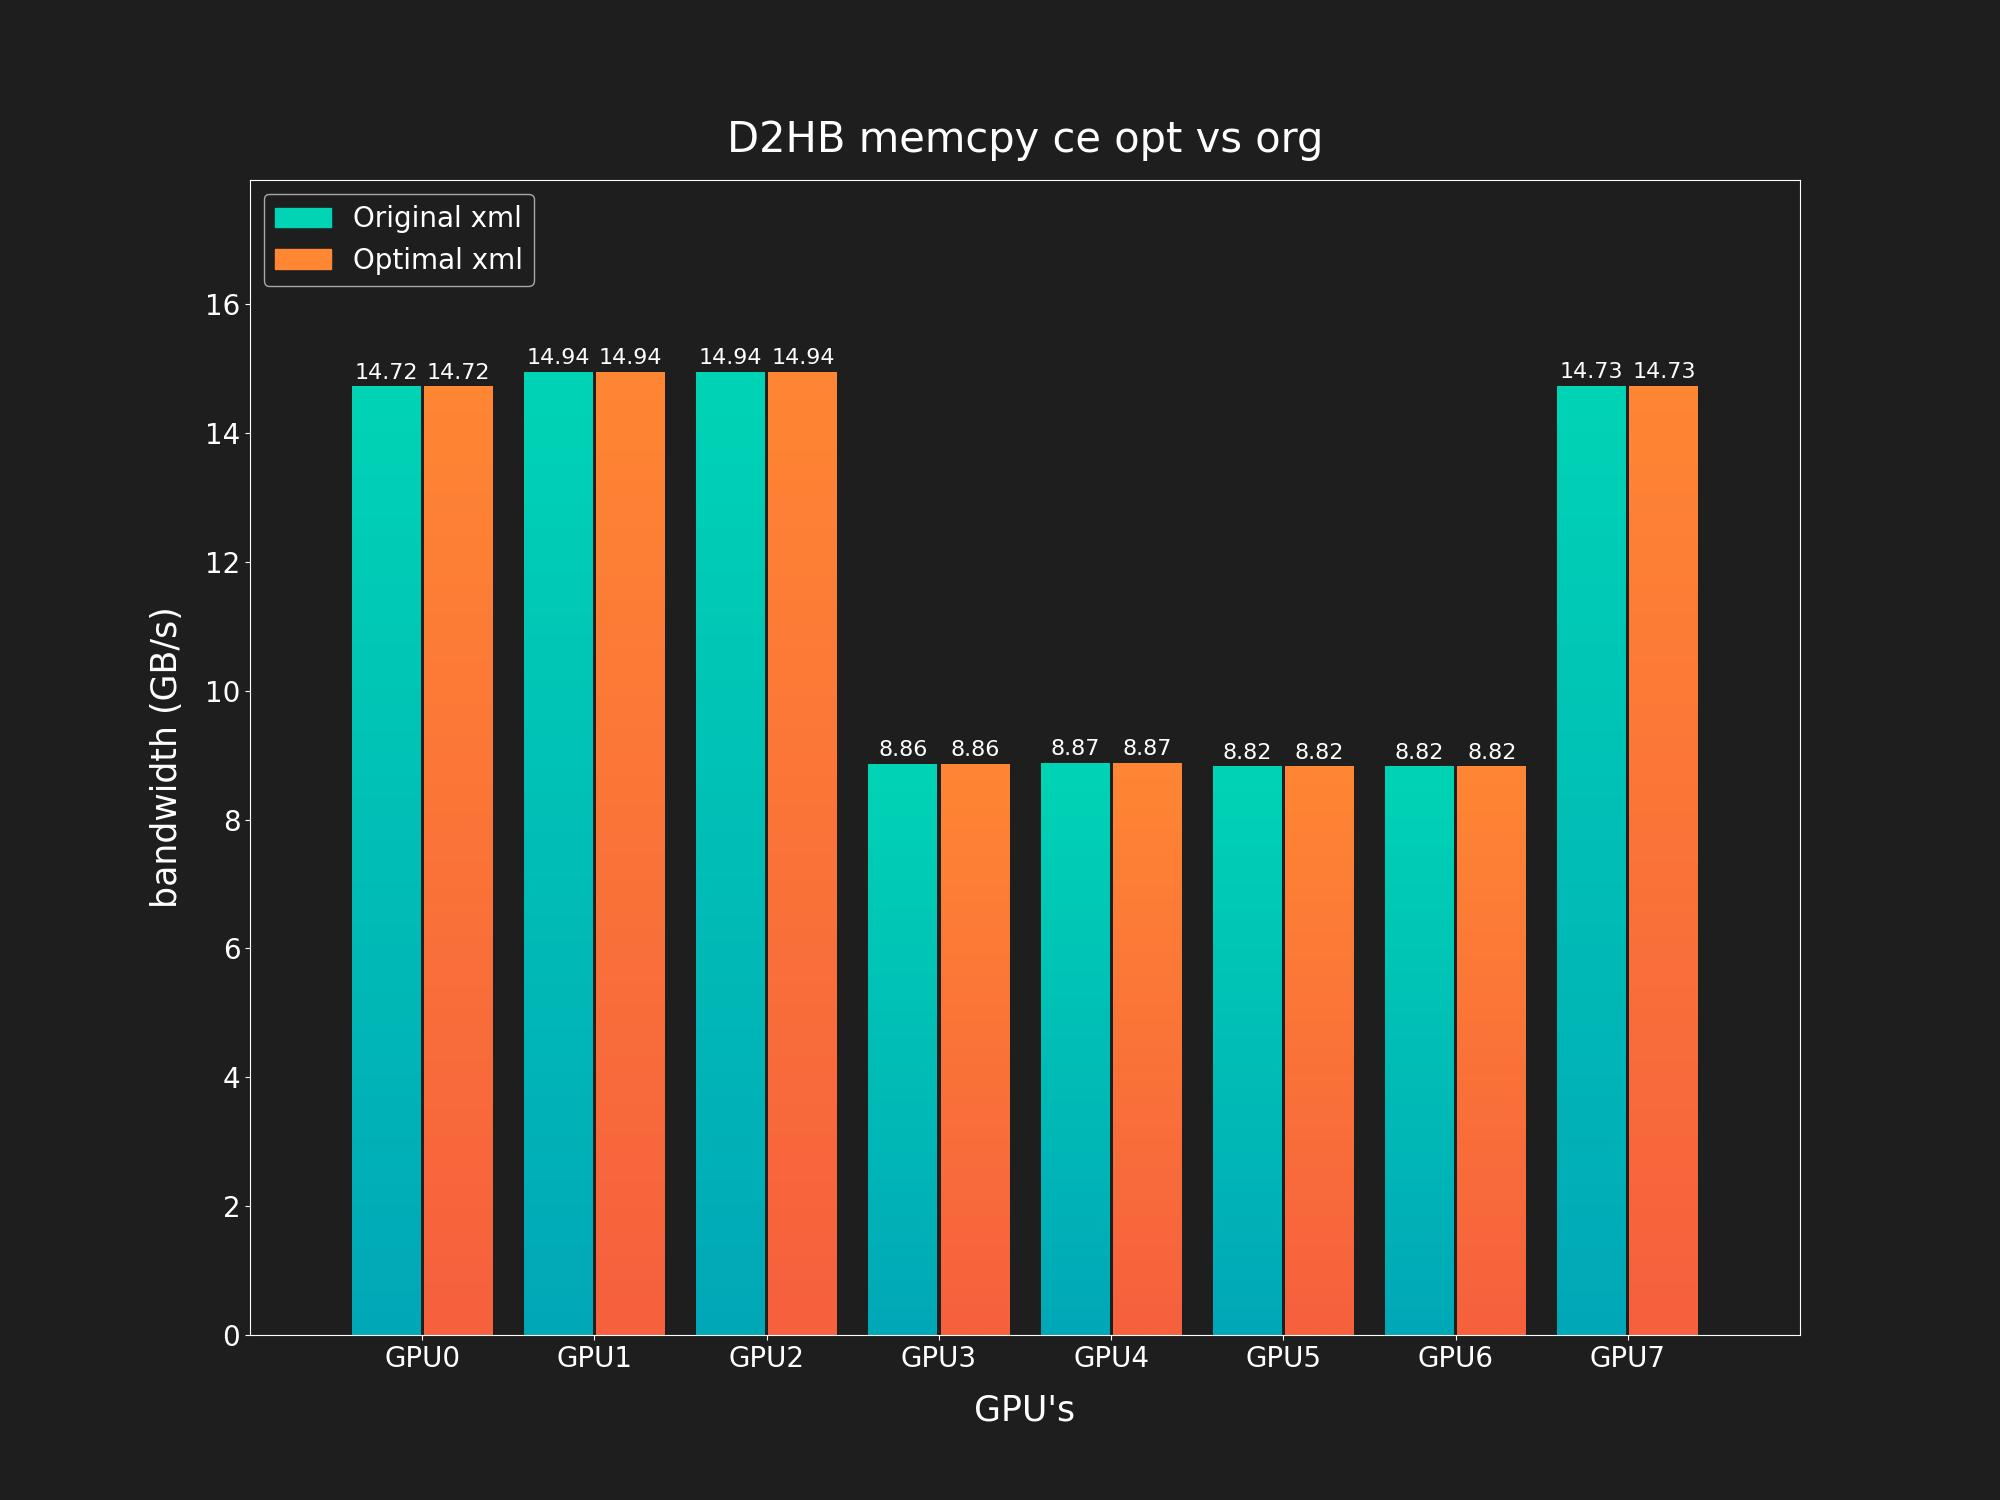
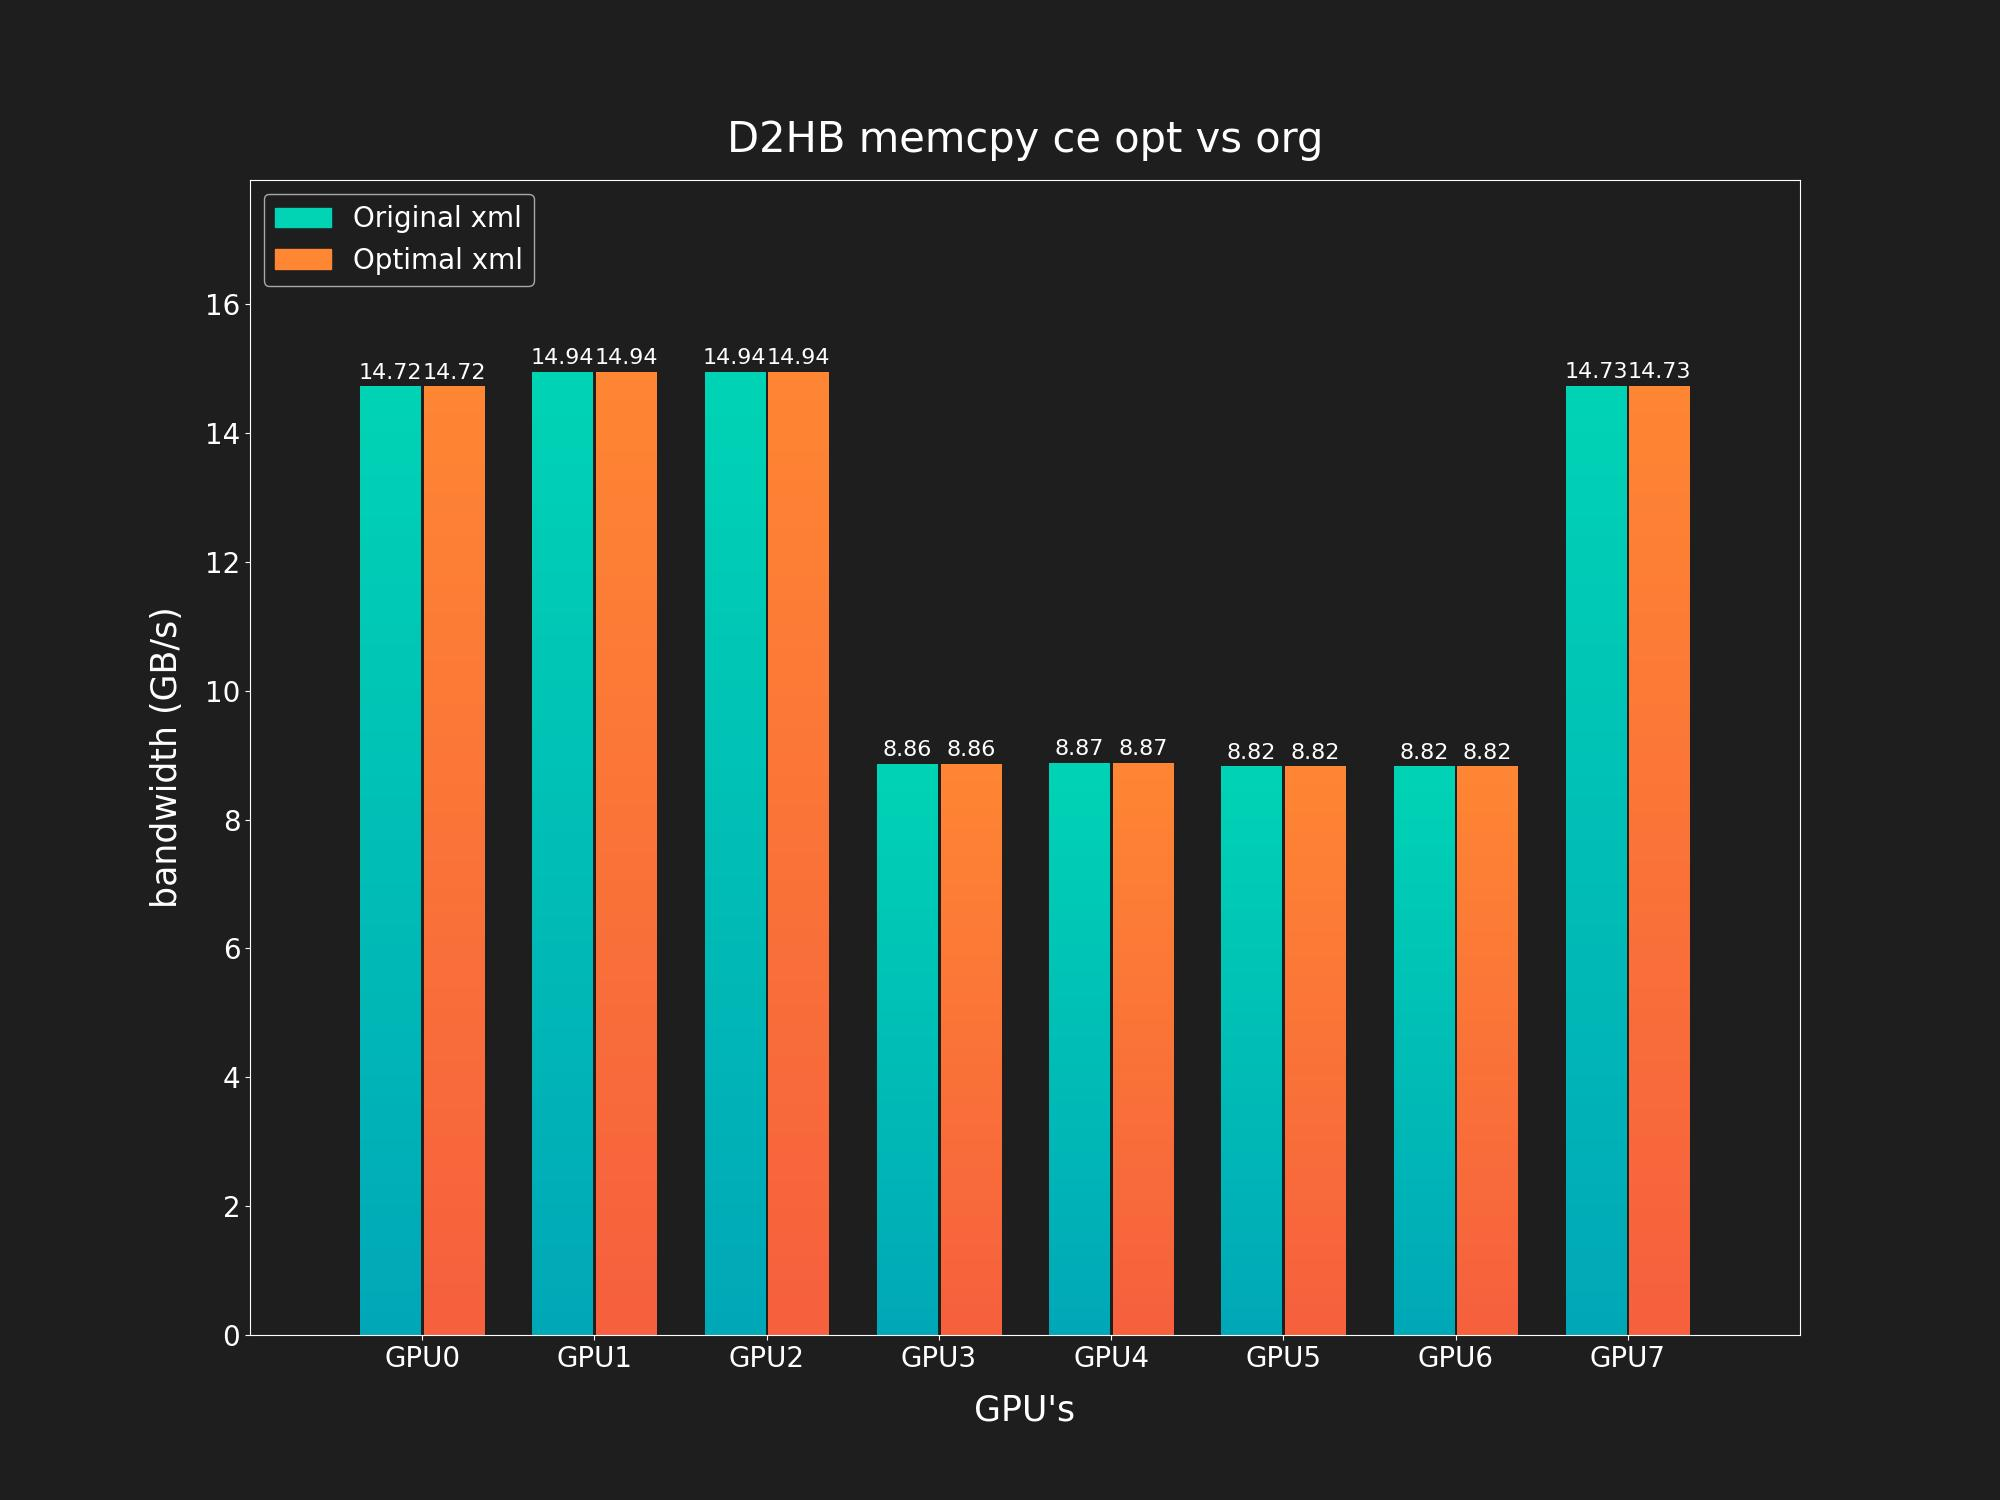
seperated all to one

Changed region(s): [[0.403, 0.2453, 0.868, 0.8893], [0.155, 0.2453, 0.279, 0.8893], [0.279, 0.2147, 0.403, 0.8893]]

diff --git a/tests_config/tests_config_nvbw.py b/tests_config/tests_config_nvbw.py
@@ -15,27 +15,33 @@ class NvBandwidthConfig:
 
 
     # Group version 2
-    11: {"file_name": "H2D_memcpy_ce", "test_name": "Host to device memcpy ce"},
-    12: {"file_name": "D2H_memcpy_ce", "test_name": "Device to host memcpy_ce"},
-    13: {"file_name": "H2DB_memcpy_ce", "test_name": "Host to device bidirectional memcpy_ce"},
-    14: {"file_name": "D2HB_memcpy_ce", "test_name": "Device to host bidirectional memcpy_ce"},
-    15: {"file_name": "A2H_memcpy_ce", "test_name": "All To Host memcpy_ce"},
-    16: {"file_name": "A2HB_memcpy_ce", "test_name": "All To Host Bidirectional memcpy_ce"},
-    17: {"file_name": "H2A_memcpy_ce", "test_name": "Host To All memcpy_ce"},
-    18: {"file_name": "H2AB_memcpy_ce", "test_name": "Host To All Bidirectional memcpy_ce"},
-    19: {"file_name": "D2D_read_write_ce", "test_name": "Device To Device Read&Write memcpy_ce"},
-    20: {"file_name": "O2A_A2O_read_write_ce", "test_name": "All to One And One To All Read&Write memcpy_sm"},
+        11: {"file_name": "H2D_memcpy_ce", "test_name": "Host to device memcpy ce"},
+        12: {"file_name": "D2H_memcpy_ce", "test_name": "Device to host memcpy_ce"},
+        13: {"file_name": "H2DB_memcpy_ce", "test_name": "Host to device bidirectional memcpy_ce"},
+        14: {"file_name": "D2HB_memcpy_ce", "test_name": "Device to host bidirectional memcpy_ce"},
+        15: {"file_name": "A2H_memcpy_ce", "test_name": "All To Host memcpy_ce"},
+        16: {"file_name": "A2HB_memcpy_ce", "test_name": "All To Host Bidirectional memcpy_ce"},
+        17: {"file_name": "H2A_memcpy_ce", "test_name": "Host To All memcpy_ce"},
+        18: {"file_name": "H2AB_memcpy_ce", "test_name": "Host To All Bidirectional memcpy_ce"},
+        19: {"file_name": "D2D_read_write_ce", "test_name": "Device To Device Read&Write memcpy_ce"},
+        20: {"file_name": "O2A_write_memcpy_ce", "test_name": "All to One Read memcpy_ce"},
+        21: {"file_name": "O2A_read_memcpy_ce", "test_name": "All to One Write memcpy_sm"},
+        22: {"file_name": "A2O_write_memcpy_ce", "test_name": "All to One Write memcpy_ce"},
+        23: {"file_name": "A2O_read_memcpy_ce", "test_name": "All to One Read memcpy_ce"},
 
-
-    21: {"file_name": "H2D_memcpy_sm", "test_name": "Host to device memcpy sm"},
-    22: {"file_name": "D2H_memcpy_sm", "test_name": "Device to host memcpy_sm"},
-    23: {"file_name": "H2DB_memcpy_sm", "test_name": "Host to device bidirectional memcpy_sm"},
-    24: {"file_name": "D2HB_memcpy_sm", "test_name": "Device to host bidirectional memcpy_sm"},
-    25: {"file_name": "A2H_memcpy_sm", "test_name": "All To Host memcpy_sm"},
-    26: {"file_name": "A2HB_memcpy_sm", "test_name": "All To Host Bidirectional memcpy_sm"},
-    27: {"file_name": "H2A_memcpy_sm", "test_name": "Host To All memcpy_sm"},
-    28: {"file_name": "H2AB_memcpy_sm", "test_name": "Host To All Bidirectional memcpy_sm"},
-    29: {"file_name": "D2D_read_write_sm", "test_name": "Device To Device Read&Write memcpy_sm"},
+        24: {"file_name": "H2D_memcpy_sm", "test_name": "Host to device memcpy sm"},
+        25: {"file_name": "D2H_memcpy_sm", "test_name": "Device to host memcpy_sm"},
+        26: {"file_name": "H2DB_memcpy_sm", "test_name": "Host to device bidirectional memcpy_sm"},
+        27: {"file_name": "D2HB_memcpy_sm", "test_name": "Device to host bidirectional memcpy_sm"},
+        28: {"file_name": "A2H_memcpy_sm", "test_name": "All To Host memcpy_sm"},
+        29: {"file_name": "A2HB_memcpy_sm", "test_name": "All To Host Bidirectional memcpy_sm"},
+        30: {"file_name": "H2A_memcpy_sm", "test_name": "Host To All memcpy_sm"},
+        31: {"file_name": "H2AB_memcpy_sm", "test_name": "Host To All Bidirectional memcpy_sm"},
+        32: {"file_name": "D2D_read_write_sm", "test_name": "Device To Device Read&Write memcpy_sm"},
+        33: {"file_name": "O2A_write_memcpy_sm", "test_name": "All to One Read memcpy_sm"},
+        34: {"file_name": "O2A_read_memcpy_sm", "test_name": "All to One Write memcpy_sm"},
+        35: {"file_name": "A2O_write_memcpy_sm", "test_name": "All to One Write memcpy_sm"},
+        36: {"file_name": "A2O_read_memcpy_sm", "test_name": "All to One Read memcpy_sm"},
     }
 
     # Tests configs
@@ -169,7 +175,7 @@ class NvBandwidthConfig:
         "right_offset": 1,
         "start": "Running all_to_one_write_ce",
         "end": "SUM all_to_one_write_ce",
-        "group_id": 20
+        "group_id": 22
     }
 
     ALL2ONE_READ_CE = {
@@ -179,7 +185,7 @@ class NvBandwidthConfig:
         "right_offset": 1,
         "start": "Running all_to_one_read_ce",
         "end": "SUM all_to_one_read_ce",
-        "group_id": 20
+        "group_id": 23
     }
 
     ONE2ALL_WRITE_CE = {
@@ -199,7 +205,7 @@ class NvBandwidthConfig:
         "right_offset": 1,
         "start": "Running one_to_all_read_ce",
         "end": "SUM one_to_all_read_ce",
-        "group_id": 20
+        "group_id": 21
     }
 
     # -- memcpy_sm

diff --git a/test_handlers/nv_bandwidth.py b/test_handlers/nv_bandwidth.py
@@ -6,41 +6,10 @@ from data_structures.nv_bandwidth_struct import NvBandwidth
 from data_structures.test import Test
 from test_handlers.test_handlers_utils import groups_all_configs
 from tests_config.tests_config_nvbw import NvBandwidthConfig
-from graph_generators.bar_graph import plot_bar_graph, plot_four_graphs
-from utils.general import get_filename_without_extension, replace_underscores_with_spaces
+from graph_generators.bar_graph import plot_bar_graph
+from utils.general import replace_underscores_with_spaces
 from utils.handle_data import load_data_matrix_format
 
-
-def plot_opt_vs_org(bandwidth_struct_list):
-    # For now - we will compare only the first two
-    bandwidth_struct_opt = [bandwidth_struct for bandwidth_struct in bandwidth_struct_list if bandwidth_struct.type == NvBandwidth.TYPE_OPT]
-    bandwidth_struct_org = [bandwidth_struct for bandwidth_struct in bandwidth_struct_list if bandwidth_struct.type == NvBandwidth.TYPE_ORG]
-
-    if len(bandwidth_struct_opt) != 1 or len(bandwidth_struct_org) != 1:
-        print("Error: Expected exactly one opt and one org file")
-        return
-
-    bandwidth_struct_opt = bandwidth_struct_opt[0]
-    bandwidth_struct_org = bandwidth_struct_org[0]
-
-    opt_tests = bandwidth_struct_opt.get_tests()
-    org_tests = bandwidth_struct_org.get_tests()
-
-    for opt_test in opt_tests:  # Iterate through each test in opt_tests
-        # Find a test in org_tests with the same name
-        matching_org_test = next((org_test for org_test in org_tests if org_test.name == opt_test.name), None)
-
-        if matching_org_test is not None:
-            print(f"Comparing opt {opt_test.name} with org {matching_org_test.name}")
-            org_vs_opt_bar_graph_nvbandwidth(
-                data_org= matching_org_test.data_pandas,
-                data_opt= opt_test.data_pandas,
-                graph_config= ComparisonGraphConfig,
-                test_name= replace_underscores_with_spaces(f"{opt_test.name} opt vs org"),
-                file_name= f"org_vs_opt_{opt_test.name}")
-
-        else:
-            print(f"Test {opt_test.name} not found in org_tests")
 
 
 def create_test_instance_and_plot(nv_bandwidth_struct, configs, graph_file_name, test_name):
@@ -121,3 +90,34 @@ def start_bandwidth(file):
         create_test_instance_and_plot(nv_bandwidth_struct, config_group, group_info["file_name"], group_info["test_name"])
     
     return nv_bandwidth_struct
+
+def plot_opt_vs_org(bandwidth_struct_list):
+    # For now - we will compare only the first two
+    bandwidth_struct_opt = [bandwidth_struct for bandwidth_struct in bandwidth_struct_list if bandwidth_struct.type == NvBandwidth.TYPE_OPT]
+    bandwidth_struct_org = [bandwidth_struct for bandwidth_struct in bandwidth_struct_list if bandwidth_struct.type == NvBandwidth.TYPE_ORG]
+
+    if len(bandwidth_struct_opt) != 1 or len(bandwidth_struct_org) != 1:
+        print("Error: Expected exactly one opt and one org file")
+        return
+
+    bandwidth_struct_opt = bandwidth_struct_opt[0]
+    bandwidth_struct_org = bandwidth_struct_org[0]
+
+    opt_tests = bandwidth_struct_opt.get_tests()
+    org_tests = bandwidth_struct_org.get_tests()
+
+    for opt_test in opt_tests:  # Iterate through each test in opt_tests
+        # Find a test in org_tests with the same name
+        matching_org_test = next((org_test for org_test in org_tests if org_test.name == opt_test.name), None)
+
+        if matching_org_test is not None:
+            print(f"Comparing opt {opt_test.name} with org {matching_org_test.name}")
+            org_vs_opt_bar_graph_nvbandwidth(
+                data_org= matching_org_test.data_pandas,
+                data_opt= opt_test.data_pandas,
+                graph_config= ComparisonGraphConfig,
+                test_name= replace_underscores_with_spaces(f"{opt_test.name} opt vs org"),
+                file_name= f"org_vs_opt_{opt_test.name}")
+
+        else:
+            print(f"Test {opt_test.name} not found in org_tests")

diff --git a/graph_generators/bar_graph.py b/graph_generators/bar_graph.py
@@ -74,36 +74,3 @@ def plot_four_graphs(data, graph_config, file_name, test_name, test_type = 0):
     # Save the graph without clipping issues
     save_graphs(plt, file_name)
     plt.close(fig)
-
-
-# def plot_bar_graph_old(data, graph_config, file_name, test_name, test_type = 0):
-#     num_rows, num_columns = data.shape
-#     if num_rows == 4 and num_columns == 1:
-#         plot_four_graphs(data, graph_config, file_name, test_name)
-#         return
-#
-#     fig, ax = plt.subplots()
-#     x = np.arange(num_rows)  # Label positions
-#
-#     # Plot bars
-#     for i, column in enumerate(data.columns):
-#         offset = (i - 2) * (graph_config.BAR_WIDTH + 0.1)
-#         rects = ax.bar(x+ offset, data[column], width=graph_config.BAR_WIDTH, label=column,
-#               color=graph_config.COLOR_THEME[test_type%2][i % len(graph_config.COLOR_THEME)])
-#         ax.bar_label(rects, padding=3, fontsize=graph_config.BAR_LABEL_FONT_SIZE)
-#
-#     ax.set_xticks(x+0.3)  # Center ticks at group positions
-#
-#
-#     # create more space for legend by increasing the y axes range
-#     ax.set_ylim(0, data.max().max() * 1.3)
-#     ax.set_ylabel(graph_config.Y_AXIS)
-#     ax.set_title(test_name)
-#     ax.legend(loc="upper left", ncol=min(num_columns, 3))
-#
-#     # Grid for readability
-#     ax.grid(True)
-#
-#     # Save the graph without clipping issues
-#     save_graphs(plt, file_name)
-#     plt.close(fig)

diff --git a/graphs_config.py b/graphs_config.py
@@ -3,7 +3,7 @@ from utils.colors import ColorPalette
 class ComparisonGraphConfig:
     TITLE_SIZE = 50
     TITLE = 'opt xml vs original xml'
-    BAR_WIDTH = 0.4
+    BAR_WIDTH = 0.35
     Y_AXIS = 'bandwidth (GB/s)'
     X_AXIS = "GPU's"
     AXIS_LABEL_FONT_SIZE = 18
